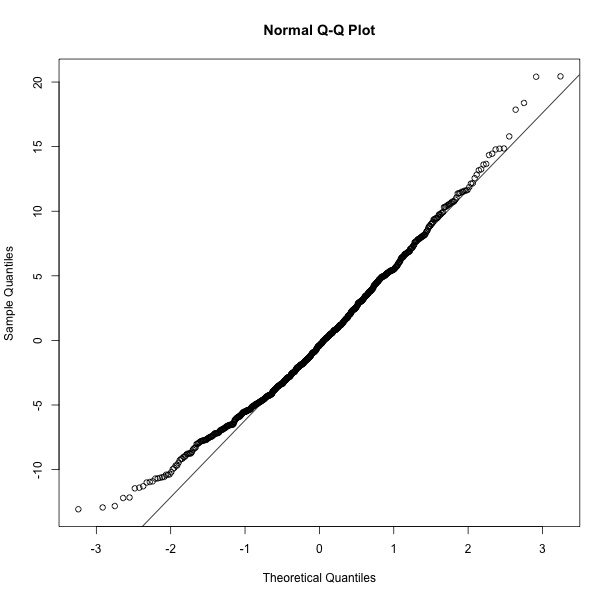
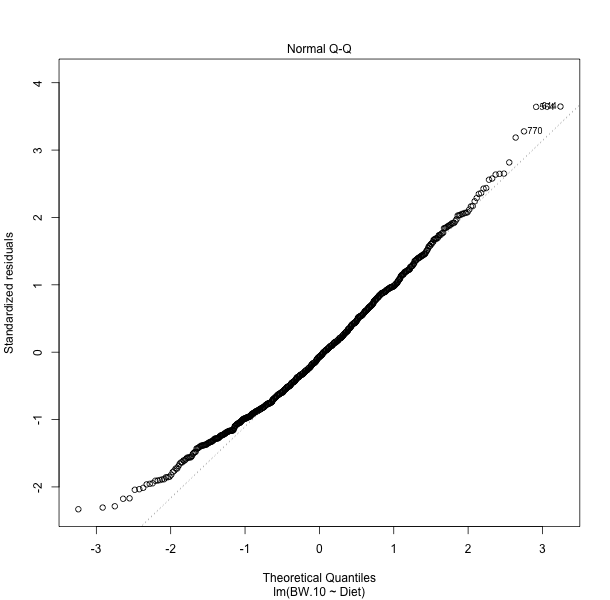
updated qq plot

diff --git a/_episodes/05-anova.md b/_episodes/05-anova.md
@@ -200,18 +200,19 @@ plot(model, which = 1)
 ~~~
 {: .language-r}
 ![](../fig/resid-vs-fitted.png)
-Note that the residuals are plotted along one of two fitted values - the one for standard chow (25.9), or the predicted value for high-fat diet (28.5). There should be constant variance vertically and points should scatter symmetrically around zero.  
+
+Note that the residuals are plotted along one of two fitted values - the one for standard chow (25.9), or the predicted value for high-fat diet (28.5). There should be constant variance vertically and points should scatter symmetrically around zero. The plot indicates 2 data points that stand out as outliers, with index numbers supplied for each.   
 
 We can also use a quantile vs. quantile (Q-Q) plot to compare the residuals to a normal distribution. 
 
 
 ~~~
-qqnorm(model$residuals)
-qqline(model$residuals)
+plot(model, which = 2)
 ~~~
 {: .language-r}
 ![](../fig/qq-plot.png)
-The Q-Q plot 
+
+The Q-Q plot indicates the 2 data points that are outliers along with their index numbers. Otherwise, most of the points lie along the diagonal line, indicating that the residuals are normally distributed. 
 
 ## The Model
 
